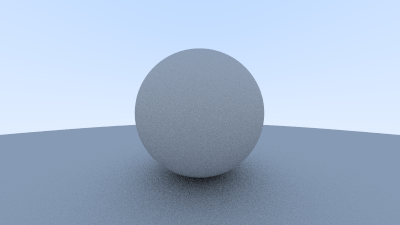
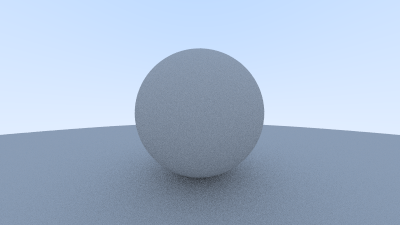
Added hemispherical scattering as alternative for deffuse material

Changed region(s): [[0.39, 0.7467, 0.6, 0.8711]]

diff --git a/src/main.rs b/src/main.rs
@@ -10,7 +10,7 @@ use vec3::{Vec3, Point};
 use objects::{Sphere};
 use hittable::{HitResult, HittableList};
 use camera::Camera;
-use utility::{random_float, random_in_unit_sphere};
+use utility::{random_float, random_unit_vector, random_in_hemisphere};
 use image::{ImageBuffer, Rgb};
 use image::imageops::{flip_vertical_in_place};
 use std::time::{Instant};
@@ -48,7 +48,8 @@ fn ray_color(r: Ray, world: &HittableList, depth: u32) -> Color {
     if depth <= 0 { return Vec3::ZERO as Color }
 
     if result.hit {
-        let target: Point = result.hit_record.p + result.hit_record.normal + random_in_unit_sphere();
+        //let target: Point = result.hit_record.p + result.hit_record.normal + random_unit_vector();
+        let target: Point = result.hit_record.p + random_in_hemisphere(result.hit_record.normal);
         return 0.5 * ray_color(ray(result.hit_record.p, target - result.hit_record.p), world, depth - 1);
     }
     let unit_direction: Vec3 = unit_vector(r.direction());
@@ -96,5 +97,5 @@ fn main() {
     //73036
 
     flip_vertical_in_place(&mut img);
-    img.save("output/test9.png").unwrap()
+    img.save("output/test10.png").unwrap()
 }

diff --git a/src/utility.rs b/src/utility.rs
@@ -18,3 +18,16 @@ pub fn random_in_unit_sphere() -> Vec3 {
         if p.length_squared() < 1.0 { return p }
     }
 }
+
+pub fn random_unit_vector() -> Vec3 {
+    random_in_unit_sphere().normalize()
+}
+
+pub fn random_in_hemisphere(normal: Vec3) -> Vec3 {
+    let in_unit_sphere = random_in_unit_sphere();
+    if Vec3::dot(&in_unit_sphere, &normal) > 0.0 {
+        in_unit_sphere
+    } else {
+        -in_unit_sphere
+    }
+}
